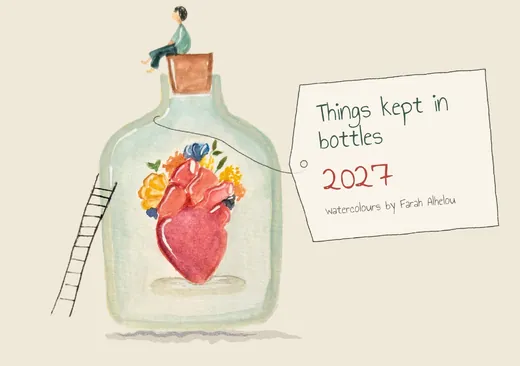
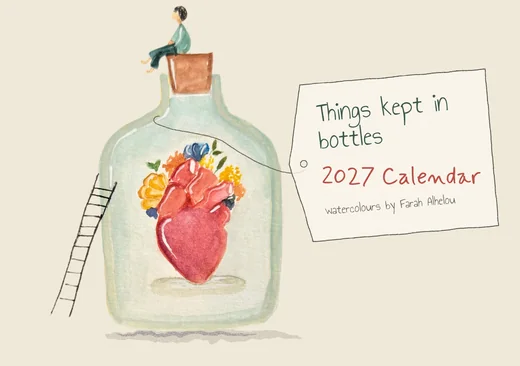
Home: the calendar pinned while the page scrolls over it; the cover's tag reads "2027 Calendar"
Claude-Session: https://claude.ai/code/session_011WuUMkvb8t9MEEabS5wD9n

diff --git a/web/assets/css/home.css b/web/assets/css/home.css
@@ -5,23 +5,26 @@
 .ar-on .sech .hand{font-size:22px}
 .ar-on .ink svg,.ar-on .go svg,.ar-on .lk svg,.ar-on .all svg{scale:-1 1}
 
-/* 1 · the calendar full screen and held (sticky) while the section scrolls by: one stretch of scroll per page (home.js
-   picks it); the new page fades in from a little closer. Each page whole on its own flat paper colour (#EFE9D9), so the
-   sides join seamlessly. Under the pointer the picture comes slowly nearer. The button: a small, light ink box. */
-.hshow{background:var(--c-efe9d9);border-bottom:1px solid var(--line-2)}
-.hs-track{position:relative;height:calc(100svh - var(--head,49px) + (var(--n,5) - 1) * 70svh)}
-.hs-stick{position:sticky;top:var(--head,49px);height:calc(100svh - var(--head,49px));min-height:420px;overflow:hidden}
+/* 1 · the calendar full screen and pinned: the section sticks under the menu and everything after it (opaque, above it)
+   scrolls up over it like a sheet drawn over a print. The pages cross-fade one after another (home.js). Each page whole on
+   its own flat paper colour (#EFE9D9), so the sides join seamlessly. Under the pointer the picture comes slowly nearer.
+   The button: a small, light ink box. */
+.hshow{position:sticky;top:var(--head,49px);z-index:0;background:var(--c-efe9d9)}
+.hs-track{position:relative;height:calc(100svh - var(--head,49px))}
+.hs-stick{position:relative;height:100%;min-height:420px;overflow:hidden}
+main>section:not(.hshow){position:relative;z-index:1;background:var(--cream)}
+main>section.hshow+section{box-shadow:0 -1px 0 var(--line-2),0 -24px 48px -24px rgba(var(--ink-rgb),.18)}
 .hs-stage{position:absolute;inset:0;display:block;overflow:hidden;background:var(--c-efe9d9);cursor:zoom-in}
 .hs-in{position:absolute;inset:0;display:block;transition:transform 2.4s cubic-bezier(.22,1,.36,1)}
 .hs-stage:hover .hs-in{transform:scale(1.06)}
-.hs-pg{position:absolute;inset:0;width:100%;height:100%;object-fit:contain;opacity:0;transform:scale(1.05);transition:opacity .9s ease,transform 1.6s cubic-bezier(.22,1,.36,1);user-select:none;-webkit-user-drag:none}
+.hs-pg{position:absolute;inset:0;width:100%;height:100%;object-fit:contain;opacity:0;transform:scale(1.03);transition:opacity 1.4s ease,transform 2.4s cubic-bezier(.22,1,.36,1);user-select:none;-webkit-user-drag:none}
 .hs-pg.on{opacity:1;transform:none}
 html:not(.js) .hs-pg:first-child{opacity:1;transform:none}
 .hs-btn{position:absolute;z-index:2;left:50%;bottom:32px;translate:-50% 0;display:inline-flex;align-items:center;min-height:36px;padding:0 16px;background:rgba(var(--ink-rgb),.86);color:var(--cream);font:500 11px/1 var(--mono2);letter-spacing:.15em;text-transform:uppercase;text-decoration:none;white-space:nowrap;transition:background .2s}
 .ar-on .hs-btn{font:500 14px/1 var(--fa);letter-spacing:0;text-transform:none}
 .hs-btn:hover{background:var(--blue)}
 .hs-btn:focus-visible{outline:2px solid var(--blue);outline-offset:3px}
-@media(max-width:700px){.hs-track{height:calc(100svh - var(--head,49px) + (var(--n,5) - 1) * 50svh)}.hs-stage{bottom:80px}.hs-btn{bottom:24px}}
+@media(max-width:700px){.hs-stage{bottom:80px}.hs-btn{bottom:24px}}
 @media(prefers-reduced-motion:reduce){.hs-pg,.hs-in{transition:none}.hs-stage:hover .hs-in{transform:none}}
 
 /* 2 · the calendar on the wall: the photograph, its page replaced by the real pages, the wire cut from the photo on top */

diff --git a/web/assets/js/home.js b/web/assets/js/home.js
@@ -1,4 +1,4 @@
-/* Home: the calendar full screen, a page for each stretch of scroll, the calendar on the wall tearing off its pages, the twelve months
+/* Home: the calendar full screen and pinned while the page scrolls over it, the calendar on the wall tearing off its pages, the twelve months
    unfolding as the page goes down, the shelves in real photographs, a few pieces straight into the bag. */
 (function () {
   'use strict';
@@ -25,21 +25,18 @@
 
   const vis = (el, fn) => { if (!el) return; new IntersectionObserver((en) => fn(en[0].isIntersecting)).observe(el); };
 
-  /* ---------- 1 · the calendar full screen, held while the page scrolls: the cover first, then each month takes its
-     place as you go down (and gives it back going up), settling in from a little closer. The picture under the pointer
-     comes slowly nearer. Each page is shown whole on its own paper colour. ---------- */
-  const htrack = $('#hstrack'), inEl = $('#hsin'), SHOW = ['c27-00', 'c27-05', 'c27-08', 'c27-09', 'c27-12'].filter((k) => C.pages.some((p) => p.k === k));
-  if (htrack && inEl && SHOW.length) {
-    inEl.innerHTML = SHOW.map((k, i) => `<img class="hs-pg${i ? '' : ' on'}" src="assets/${k}-hd.webp" alt="" decoding="async" draggable="false"${i ? '' : ' fetchpriority="high"'}>`).join('');
-    htrack.style.setProperty('--n', SHOW.length);
-    const pgs = $$('.hs-pg', inEl); let at = 0, q = false;
-    const pick = () => {
-      q = false; const r = htrack.getBoundingClientRect(), stick = htrack.firstElementChild.offsetHeight, run = r.height - stick;
-      const f = run > 0 ? Math.min(.999, Math.max(0, -r.top / run)) : 0, i = Math.floor(f * pgs.length);
-      if (i !== at) { pgs[at].classList.remove('on'); pgs[i].classList.add('on'); at = i; }
-    };
-    addEventListener('scroll', () => { if (!q) { q = true; requestAnimationFrame(pick); } }, { passive: true });
-    addEventListener('resize', pick); pick();
+  /* ---------- 1 · the calendar full screen, pinned: it stays where it is while the rest of the page scrolls up over it.
+     The cover first, then the months one after another (a slow cross-fade every 4.5s, paused when out of sight); the
+     picture under the pointer comes slowly nearer. Each page is shown whole on its own paper colour. ---------- */
+  const inEl = $('#hsin'), SHOW = ['c27-00', 'c27-05', 'c27-08', 'c27-09', 'c27-12'].filter((k) => C.pages.some((p) => p.k === k));
+  if (inEl && SHOW.length) {
+    inEl.innerHTML = SHOW.map((k, i) => `<img class="hs-pg${i ? '' : ' on'}" src="assets/${k}-hd.webp" alt="" decoding="async" draggable="false"${i ? ' loading="lazy"' : ' fetchpriority="high"'}>`).join('');
+    const pgs = $$('.hs-pg', inEl); let at = 0, seen = true;
+    vis(inEl, (v) => { seen = v; });
+    if (!MG.still && pgs.length > 1) setInterval(() => {
+      if (!seen || document.hidden || scrollY > innerHeight * .9) return;
+      pgs[at].classList.toggle('on', false); at = (at + 1) % pgs.length; pgs[at].classList.add('on');
+    }, 4500);
   }
 
   /* ---------- 2 · the calendar on the wall: its pages lie in the photograph's page, the wire on top; every few seconds

diff --git a/web/calendar.html b/web/calendar.html
@@ -19,10 +19,10 @@
 <link rel="preload" href="fonts/geist-mono-latin-500-normal.woff2" as="font" type="font/woff2" crossorigin>
 <link rel="stylesheet" href="fonts/all.css">
 <link rel="stylesheet" href="fonts/figtree.css">
-<link rel="stylesheet" href="assets/css/site.css?v=27e2d2cd">
-<link rel="stylesheet" href="assets/css/show.css?v=27e2d2cd">
-<link rel="stylesheet" href="assets/css/calendar.css?v=27e2d2cd">
-<script src="assets/js/boot.js?v=27e2d2cd"></script>
+<link rel="stylesheet" href="assets/css/site.css?v=d7055a15">
+<link rel="stylesheet" href="assets/css/show.css?v=d7055a15">
+<link rel="stylesheet" href="assets/css/calendar.css?v=d7055a15">
+<script src="assets/js/boot.js?v=d7055a15"></script>
 </head>
 <body>
 <a class="skip" href="#main" data-ar="انتقلوا إلى المحتوى">Skip to content</a>
@@ -121,11 +121,11 @@
   <div class="ft-z"><small data-ar="© 2026 ماس آند غراس، غزة، فلسطين">© 2026 Mass &amp; Grass, Gaza, Palestine</small><div class="soc" id="soc"></div></div>
 </footer>
 
-<script src="assets/js/catalog.js?v=27e2d2cd" defer></script>
-<script src="assets/js/art.js?v=27e2d2cd" defer></script>
-<script src="assets/js/core.js?v=27e2d2cd" defer></script>
-<script src="assets/js/mock.js?v=27e2d2cd" defer></script>
-<script src="assets/js/show.js?v=27e2d2cd" defer></script>
-<script src="assets/js/calendar.js?v=27e2d2cd" defer></script>
+<script src="assets/js/catalog.js?v=d7055a15" defer></script>
+<script src="assets/js/art.js?v=d7055a15" defer></script>
+<script src="assets/js/core.js?v=d7055a15" defer></script>
+<script src="assets/js/mock.js?v=d7055a15" defer></script>
+<script src="assets/js/show.js?v=d7055a15" defer></script>
+<script src="assets/js/calendar.js?v=d7055a15" defer></script>
 </body>
 </html>

diff --git a/web/shop.html b/web/shop.html
@@ -19,10 +19,10 @@
 <link rel="preload" href="fonts/geist-mono-latin-500-normal.woff2" as="font" type="font/woff2" crossorigin>
 <link rel="stylesheet" href="fonts/all.css">
 <link rel="stylesheet" href="fonts/figtree.css">
-<link rel="stylesheet" href="assets/css/site.css?v=27e2d2cd">
-<link rel="stylesheet" href="assets/css/tiles.css?v=27e2d2cd">
-<link rel="stylesheet" href="assets/css/shop.css?v=27e2d2cd">
-<script src="assets/js/boot.js?v=27e2d2cd"></script>
+<link rel="stylesheet" href="assets/css/site.css?v=d7055a15">
+<link rel="stylesheet" href="assets/css/tiles.css?v=d7055a15">
+<link rel="stylesheet" href="assets/css/shop.css?v=d7055a15">
+<script src="assets/js/boot.js?v=d7055a15"></script>
 </head>
 <body>
 <a class="skip" href="#main" data-ar="انتقلوا إلى المحتوى">Skip to content</a>
@@ -82,10 +82,10 @@
   <div class="ft-z"><small data-ar="© 2026 ماس آند غراس، غزة، فلسطين">© 2026 Mass &amp; Grass, Gaza, Palestine</small><div class="soc" id="soc"></div></div>
 </footer>
 
-<script src="assets/js/catalog.js?v=27e2d2cd" defer></script>
-<script src="assets/js/art.js?v=27e2d2cd" defer></script>
-<script src="assets/js/core.js?v=27e2d2cd" defer></script>
-<script src="assets/js/mock.js?v=27e2d2cd" defer></script>
-<script src="assets/js/shop.js?v=27e2d2cd" defer></script>
+<script src="assets/js/catalog.js?v=d7055a15" defer></script>
+<script src="assets/js/art.js?v=d7055a15" defer></script>
+<script src="assets/js/core.js?v=d7055a15" defer></script>
+<script src="assets/js/mock.js?v=d7055a15" defer></script>
+<script src="assets/js/shop.js?v=d7055a15" defer></script>
 </body>
 </html>

diff --git a/web/paintings.html b/web/paintings.html
@@ -19,9 +19,9 @@
 <link rel="preload" href="fonts/geist-mono-latin-500-normal.woff2" as="font" type="font/woff2" crossorigin>
 <link rel="stylesheet" href="fonts/all.css">
 <link rel="stylesheet" href="fonts/figtree.css">
-<link rel="stylesheet" href="assets/css/site.css?v=27e2d2cd">
-<link rel="stylesheet" href="assets/css/paintings.css?v=27e2d2cd">
-<script src="assets/js/boot.js?v=27e2d2cd"></script>
+<link rel="stylesheet" href="assets/css/site.css?v=d7055a15">
+<link rel="stylesheet" href="assets/css/paintings.css?v=d7055a15">
+<script src="assets/js/boot.js?v=d7055a15"></script>
 </head>
 <body>
 <a class="skip" href="#main" data-ar="انتقلوا إلى المحتوى">Skip to content</a>
@@ -103,10 +103,10 @@
   <div class="ft-z"><small data-ar="© 2026 ماس آند غراس، غزة، فلسطين">© 2026 Mass &amp; Grass, Gaza, Palestine</small><div class="soc" id="soc"></div></div>
 </footer>
 
-<script src="assets/js/catalog.js?v=27e2d2cd" defer></script>
-<script src="assets/js/art.js?v=27e2d2cd" defer></script>
-<script src="assets/js/core.js?v=27e2d2cd" defer></script>
-<script src="assets/js/mock.js?v=27e2d2cd" defer></script>
-<script src="assets/js/paintings.js?v=27e2d2cd" defer></script>
+<script src="assets/js/catalog.js?v=d7055a15" defer></script>
+<script src="assets/js/art.js?v=d7055a15" defer></script>
+<script src="assets/js/core.js?v=d7055a15" defer></script>
+<script src="assets/js/mock.js?v=d7055a15" defer></script>
+<script src="assets/js/paintings.js?v=d7055a15" defer></script>
 </body>
 </html>

diff --git a/web/postcards.html b/web/postcards.html
@@ -19,9 +19,9 @@
 <link rel="preload" href="fonts/geist-mono-latin-500-normal.woff2" as="font" type="font/woff2" crossorigin>
 <link rel="stylesheet" href="fonts/all.css">
 <link rel="stylesheet" href="fonts/figtree.css">
-<link rel="stylesheet" href="assets/css/site.css?v=27e2d2cd">
-<link rel="stylesheet" href="assets/css/postcards.css?v=27e2d2cd">
-<script src="assets/js/boot.js?v=27e2d2cd"></script>
+<link rel="stylesheet" href="assets/css/site.css?v=d7055a15">
+<link rel="stylesheet" href="assets/css/postcards.css?v=d7055a15">
+<script src="assets/js/boot.js?v=d7055a15"></script>
 </head>
 <body>
 <a class="skip" href="#main" data-ar="انتقلوا إلى المحتوى">Skip to content</a>
@@ -153,10 +153,10 @@
   <div class="ft-z"><small data-ar="© 2026 ماس آند غراس، غزة، فلسطين">© 2026 Mass &amp; Grass, Gaza, Palestine</small><div class="soc" id="soc"></div></div>
 </footer>
 
-<script src="assets/js/catalog.js?v=27e2d2cd" defer></script>
-<script src="assets/js/art.js?v=27e2d2cd" defer></script>
-<script src="assets/js/core.js?v=27e2d2cd" defer></script>
-<script src="assets/js/mock.js?v=27e2d2cd" defer></script>
-<script src="assets/js/postcards.js?v=27e2d2cd" defer></script>
+<script src="assets/js/catalog.js?v=d7055a15" defer></script>
+<script src="assets/js/art.js?v=d7055a15" defer></script>
+<script src="assets/js/core.js?v=d7055a15" defer></script>
+<script src="assets/js/mock.js?v=d7055a15" defer></script>
+<script src="assets/js/postcards.js?v=d7055a15" defer></script>
 </body>
 </html>

diff --git a/web/stickers.html b/web/stickers.html
@@ -19,9 +19,9 @@
 <link rel="preload" href="fonts/geist-mono-latin-500-normal.woff2" as="font" type="font/woff2" crossorigin>
 <link rel="stylesheet" href="fonts/all.css">
 <link rel="stylesheet" href="fonts/figtree.css">
-<link rel="stylesheet" href="assets/css/site.css?v=27e2d2cd">
-<link rel="stylesheet" href="assets/css/stickers.css?v=27e2d2cd">
-<script src="assets/js/boot.js?v=27e2d2cd"></script>
+<link rel="stylesheet" href="assets/css/site.css?v=d7055a15">
+<link rel="stylesheet" href="assets/css/stickers.css?v=d7055a15">
+<script src="assets/js/boot.js?v=d7055a15"></script>
 </head>
 <body>
 <a class="skip" href="#main" data-ar="انتقلوا إلى المحتوى">Skip to content</a>
@@ -109,10 +109,10 @@
   <div class="ft-z"><small data-ar="© 2026 ماس آند غراس، غزة، فلسطين">© 2026 Mass &amp; Grass, Gaza, Palestine</small><div class="soc" id="soc"></div></div>
 </footer>
 
-<script src="assets/js/catalog.js?v=27e2d2cd" defer></script>
-<script src="assets/js/art.js?v=27e2d2cd" defer></script>
-<script src="assets/js/core.js?v=27e2d2cd" defer></script>
-<script src="assets/js/mock.js?v=27e2d2cd" defer></script>
-<script src="assets/js/stickers.js?v=27e2d2cd" defer></script>
+<script src="assets/js/catalog.js?v=d7055a15" defer></script>
+<script src="assets/js/art.js?v=d7055a15" defer></script>
+<script src="assets/js/core.js?v=d7055a15" defer></script>
+<script src="assets/js/mock.js?v=d7055a15" defer></script>
+<script src="assets/js/stickers.js?v=d7055a15" defer></script>
 </body>
 </html>

diff --git a/web/checkout.html b/web/checkout.html
@@ -20,9 +20,9 @@
 <link rel="preload" href="fonts/geist-mono-latin-500-normal.woff2" as="font" type="font/woff2" crossorigin>
 <link rel="stylesheet" href="fonts/all.css">
 <link rel="stylesheet" href="fonts/figtree.css">
-<link rel="stylesheet" href="assets/css/site.css?v=27e2d2cd">
-<link rel="stylesheet" href="assets/css/checkout.css?v=27e2d2cd">
-<script src="assets/js/boot.js?v=27e2d2cd"></script>
+<link rel="stylesheet" href="assets/css/site.css?v=d7055a15">
+<link rel="stylesheet" href="assets/css/checkout.css?v=d7055a15">
+<script src="assets/js/boot.js?v=d7055a15"></script>
 </head>
 <body>
 <a class="skip" href="#main" data-ar="انتقلوا إلى المحتوى">Skip to content</a>
@@ -81,10 +81,10 @@
   <div class="ft-z"><small data-ar="© 2026 ماس آند غراس، غزة، فلسطين">© 2026 Mass &amp; Grass, Gaza, Palestine</small><div class="soc" id="soc"></div></div>
 </footer>
 
-<script src="assets/js/catalog.js?v=27e2d2cd" defer></script>
-<script src="assets/js/art.js?v=27e2d2cd" defer></script>
-<script src="assets/js/core.js?v=27e2d2cd" defer></script>
-<script src="assets/js/mock.js?v=27e2d2cd" defer></script>
-<script src="assets/js/checkout.js?v=27e2d2cd" defer></script>
+<script src="assets/js/catalog.js?v=d7055a15" defer></script>
+<script src="assets/js/art.js?v=d7055a15" defer></script>
+<script src="assets/js/core.js?v=d7055a15" defer></script>
+<script src="assets/js/mock.js?v=d7055a15" defer></script>
+<script src="assets/js/checkout.js?v=d7055a15" defer></script>
 </body>
 </html>

diff --git a/web/account.html b/web/account.html
@@ -20,9 +20,9 @@
 <link rel="preload" href="fonts/geist-mono-latin-500-normal.woff2" as="font" type="font/woff2" crossorigin>
 <link rel="stylesheet" href="fonts/all.css">
 <link rel="stylesheet" href="fonts/figtree.css">
-<link rel="stylesheet" href="assets/css/site.css?v=27e2d2cd">
-<link rel="stylesheet" href="assets/css/account.css?v=27e2d2cd">
-<script src="assets/js/boot.js?v=27e2d2cd"></script>
+<link rel="stylesheet" href="assets/css/site.css?v=d7055a15">
+<link rel="stylesheet" href="assets/css/account.css?v=d7055a15">
+<script src="assets/js/boot.js?v=d7055a15"></script>
 </head>
 <body>
 <a class="skip" href="#main" data-ar="انتقلوا إلى المحتوى">Skip to content</a>
@@ -86,10 +86,10 @@
   <div class="ft-z"><small data-ar="© 2026 ماس آند غراس، غزة، فلسطين">© 2026 Mass &amp; Grass, Gaza, Palestine</small><div class="soc" id="soc"></div></div>
 </footer>
 
-<script src="assets/js/catalog.js?v=27e2d2cd" defer></script>
-<script src="assets/js/art.js?v=27e2d2cd" defer></script>
-<script src="assets/js/core.js?v=27e2d2cd" defer></script>
-<script src="assets/js/mock.js?v=27e2d2cd" defer></script>
-<script src="assets/js/account.js?v=27e2d2cd" defer></script>
+<script src="assets/js/catalog.js?v=d7055a15" defer></script>
+<script src="assets/js/art.js?v=d7055a15" defer></script>
+<script src="assets/js/core.js?v=d7055a15" defer></script>
+<script src="assets/js/mock.js?v=d7055a15" defer></script>
+<script src="assets/js/account.js?v=d7055a15" defer></script>
 </body>
 </html>

diff --git a/web/profile.html b/web/profile.html
@@ -20,9 +20,9 @@
 <link rel="preload" href="fonts/geist-mono-latin-500-normal.woff2" as="font" type="font/woff2" crossorigin>
 <link rel="stylesheet" href="fonts/all.css">
 <link rel="stylesheet" href="fonts/figtree.css">
-<link rel="stylesheet" href="assets/css/site.css?v=27e2d2cd">
-<link rel="stylesheet" href="assets/css/profile.css?v=27e2d2cd">
-<script src="assets/js/boot.js?v=27e2d2cd"></script>
+<link rel="stylesheet" href="assets/css/site.css?v=d7055a15">
+<link rel="stylesheet" href="assets/css/profile.css?v=d7055a15">
+<script src="assets/js/boot.js?v=d7055a15"></script>
 </head>
 <body>
 <a class="skip" href="#main" data-ar="انتقلوا إلى المحتوى">Skip to content</a>
@@ -88,10 +88,10 @@
   <div class="ft-z"><small data-ar="© 2026 ماس آند غراس، غزة، فلسطين">© 2026 Mass &amp; Grass, Gaza, Palestine</small><div class="soc" id="soc"></div></div>
 </footer>
 
-<script src="assets/js/catalog.js?v=27e2d2cd" defer></script>
-<script src="assets/js/art.js?v=27e2d2cd" defer></script>
-<script src="assets/js/core.js?v=27e2d2cd" defer></script>
-<script src="assets/js/mock.js?v=27e2d2cd" defer></script>
-<script src="assets/js/profile.js?v=27e2d2cd" defer></script>
+<script src="assets/js/catalog.js?v=d7055a15" defer></script>
+<script src="assets/js/art.js?v=d7055a15" defer></script>
+<script src="assets/js/core.js?v=d7055a15" defer></script>
+<script src="assets/js/mock.js?v=d7055a15" defer></script>
+<script src="assets/js/profile.js?v=d7055a15" defer></script>
 </body>
 </html>

diff --git a/web/story.html b/web/story.html
@@ -19,9 +19,9 @@
 <link rel="preload" href="fonts/geist-mono-latin-500-normal.woff2" as="font" type="font/woff2" crossorigin>
 <link rel="stylesheet" href="fonts/all.css">
 <link rel="stylesheet" href="fonts/figtree.css">
-<link rel="stylesheet" href="assets/css/site.css?v=27e2d2cd">
-<link rel="stylesheet" href="assets/css/story.css?v=27e2d2cd">
-<script src="assets/js/boot.js?v=27e2d2cd"></script>
+<link rel="stylesheet" href="assets/css/site.css?v=d7055a15">
+<link rel="stylesheet" href="assets/css/story.css?v=d7055a15">
+<script src="assets/js/boot.js?v=d7055a15"></script>
 </head>
 <body>
 <a class="skip" href="#main" data-ar="انتقلوا إلى المحتوى">Skip to content</a>
@@ -157,10 +157,10 @@
   <div class="ft-z"><small data-ar="© 2026 ماس آند غراس، غزة، فلسطين">© 2026 Mass &amp; Grass, Gaza, Palestine</small><div class="soc" id="soc"></div></div>
 </footer>
 
-<script src="assets/js/catalog.js?v=27e2d2cd" defer></script>
-<script src="assets/js/art.js?v=27e2d2cd" defer></script>
-<script src="assets/js/core.js?v=27e2d2cd" defer></script>
-<script src="assets/js/mock.js?v=27e2d2cd" defer></script>
-<script src="assets/js/story.js?v=27e2d2cd" defer></script>
+<script src="assets/js/catalog.js?v=d7055a15" defer></script>
+<script src="assets/js/art.js?v=d7055a15" defer></script>
+<script src="assets/js/core.js?v=d7055a15" defer></script>
+<script src="assets/js/mock.js?v=d7055a15" defer></script>
+<script src="assets/js/story.js?v=d7055a15" defer></script>
 </body>
 </html>

diff --git a/web/terms.html b/web/terms.html
@@ -19,9 +19,9 @@
 <link rel="preload" href="fonts/geist-mono-latin-500-normal.woff2" as="font" type="font/woff2" crossorigin>
 <link rel="stylesheet" href="fonts/all.css">
 <link rel="stylesheet" href="fonts/figtree.css">
-<link rel="stylesheet" href="assets/css/site.css?v=27e2d2cd">
-<link rel="stylesheet" href="assets/css/terms.css?v=27e2d2cd">
-<script src="assets/js/boot.js?v=27e2d2cd"></script>
+<link rel="stylesheet" href="assets/css/site.css?v=d7055a15">
+<link rel="stylesheet" href="assets/css/terms.css?v=d7055a15">
+<script src="assets/js/boot.js?v=d7055a15"></script>
 </head>
 <body>
 <a class="skip" href="#main" data-ar="انتقلوا إلى المحتوى">Skip to content</a>
@@ -79,10 +79,10 @@
   <div class="ft-z"><small data-ar="© 2026 ماس آند غراس، غزة، فلسطين">© 2026 Mass &amp; Grass, Gaza, Palestine</small><div class="soc" id="soc"></div></div>
 </footer>
 
-<script src="assets/js/catalog.js?v=27e2d2cd" defer></script>
-<script src="assets/js/art.js?v=27e2d2cd" defer></script>
-<script src="assets/js/core.js?v=27e2d2cd" defer></script>
-<script src="assets/js/mock.js?v=27e2d2cd" defer></script>
-<script src="assets/js/terms.js?v=27e2d2cd" defer></script>
+<script src="assets/js/catalog.js?v=d7055a15" defer></script>
+<script src="assets/js/art.js?v=d7055a15" defer></script>
+<script src="assets/js/core.js?v=d7055a15" defer></script>
+<script src="assets/js/mock.js?v=d7055a15" defer></script>
+<script src="assets/js/terms.js?v=d7055a15" defer></script>
 </body>
 </html>
